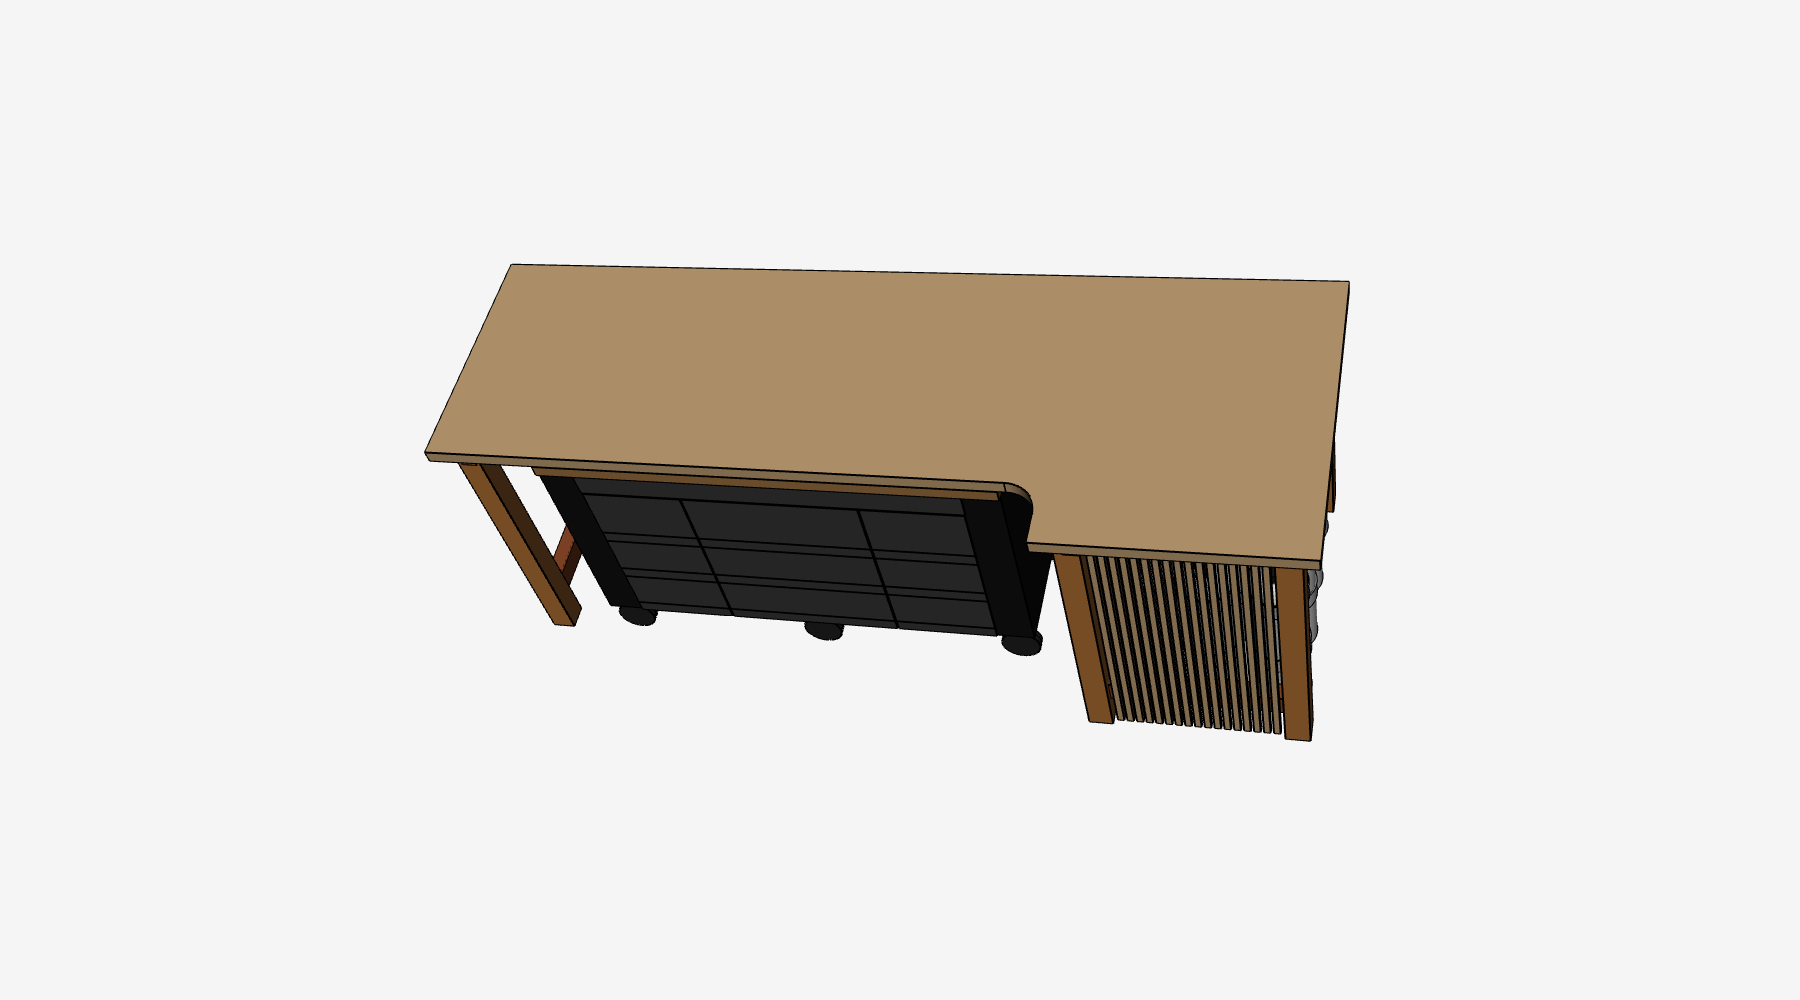
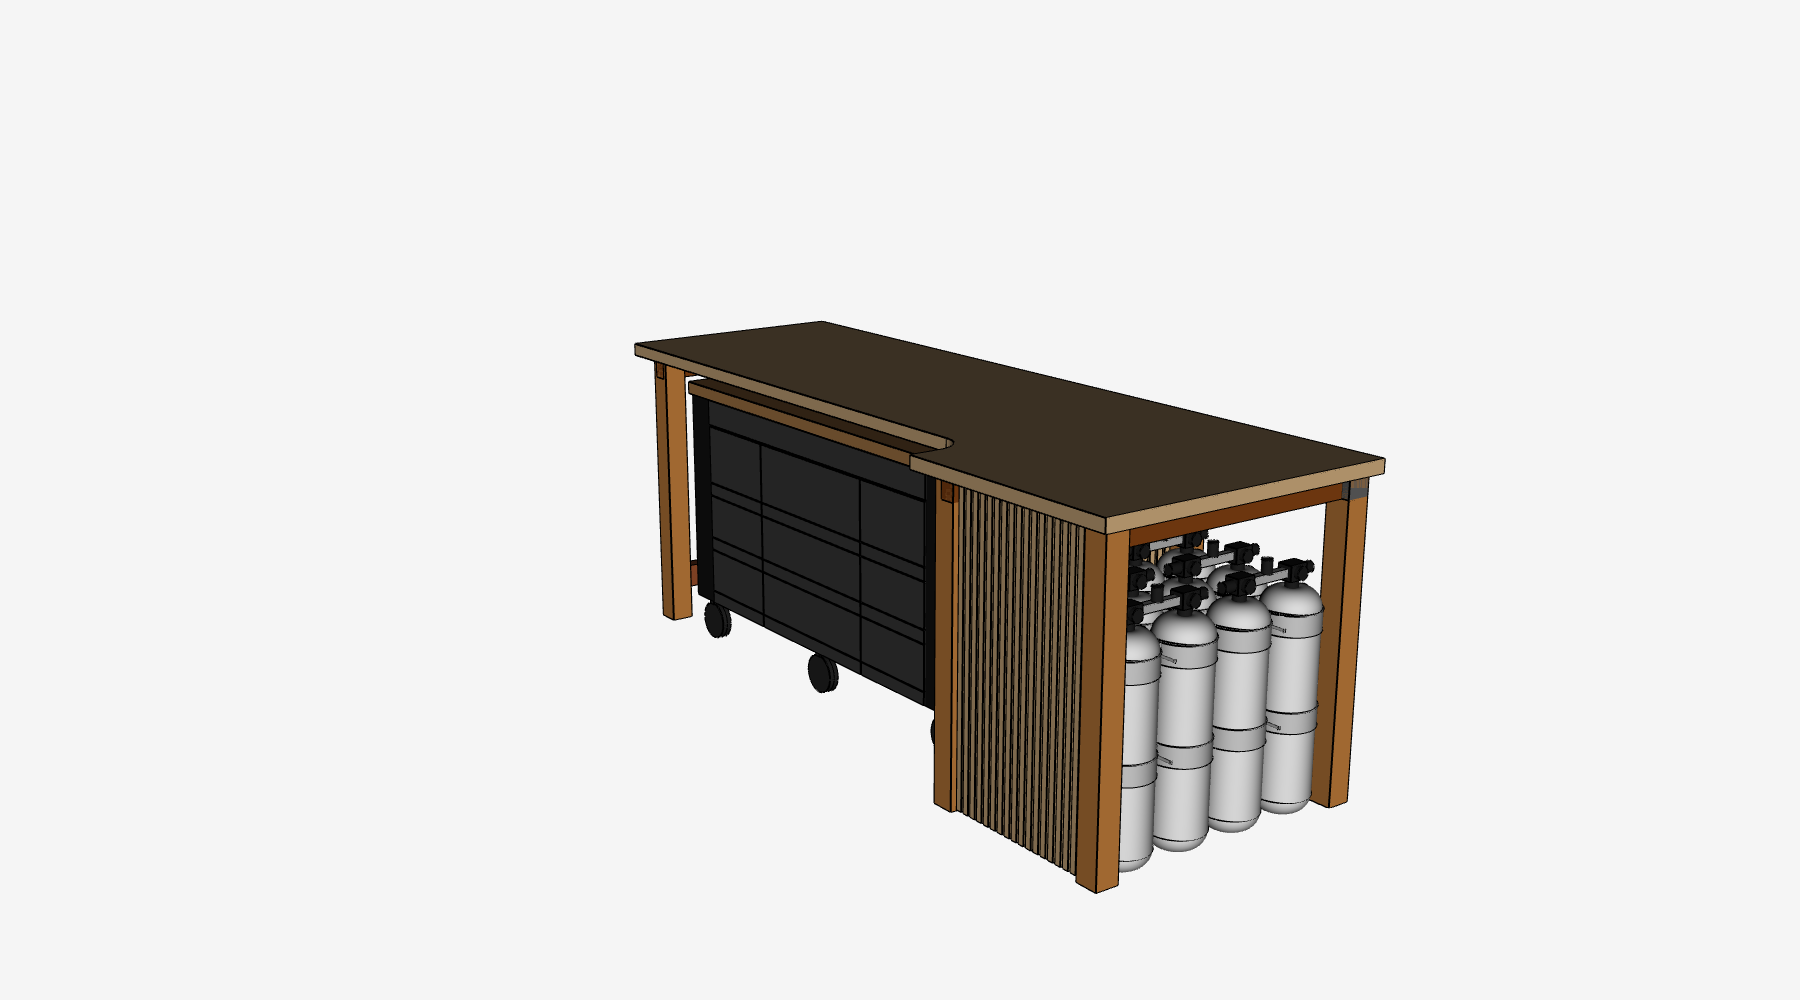
Render: fix camera angle to show cart + tanks under bench

Changed region(s): [[0.2178, 0.248, 0.7778, 0.899]]

diff --git a/src/workbench/render_colored.py b/src/workbench/render_colored.py
@@ -46,11 +46,11 @@ def render(
     for act in toVTKAssy(assy):
         renderer.AddActor(act)
 
-    renderer.ResetCamera()
+    # Explicit camera: front-right, low enough to see cart under the bench
     cam = renderer.GetActiveCamera()
-    cam.Elevation(elevation)
-    cam.Azimuth(azimuth)
-    cam.Roll(roll)
+    cam.SetPosition(4500, -3500, 2200)
+    cam.SetFocalPoint(-300, 0, 600)
+    cam.SetViewUp(0, 0, 1)
     renderer.ResetCameraClippingRange()
 
     win = vtkRenderWindow()
